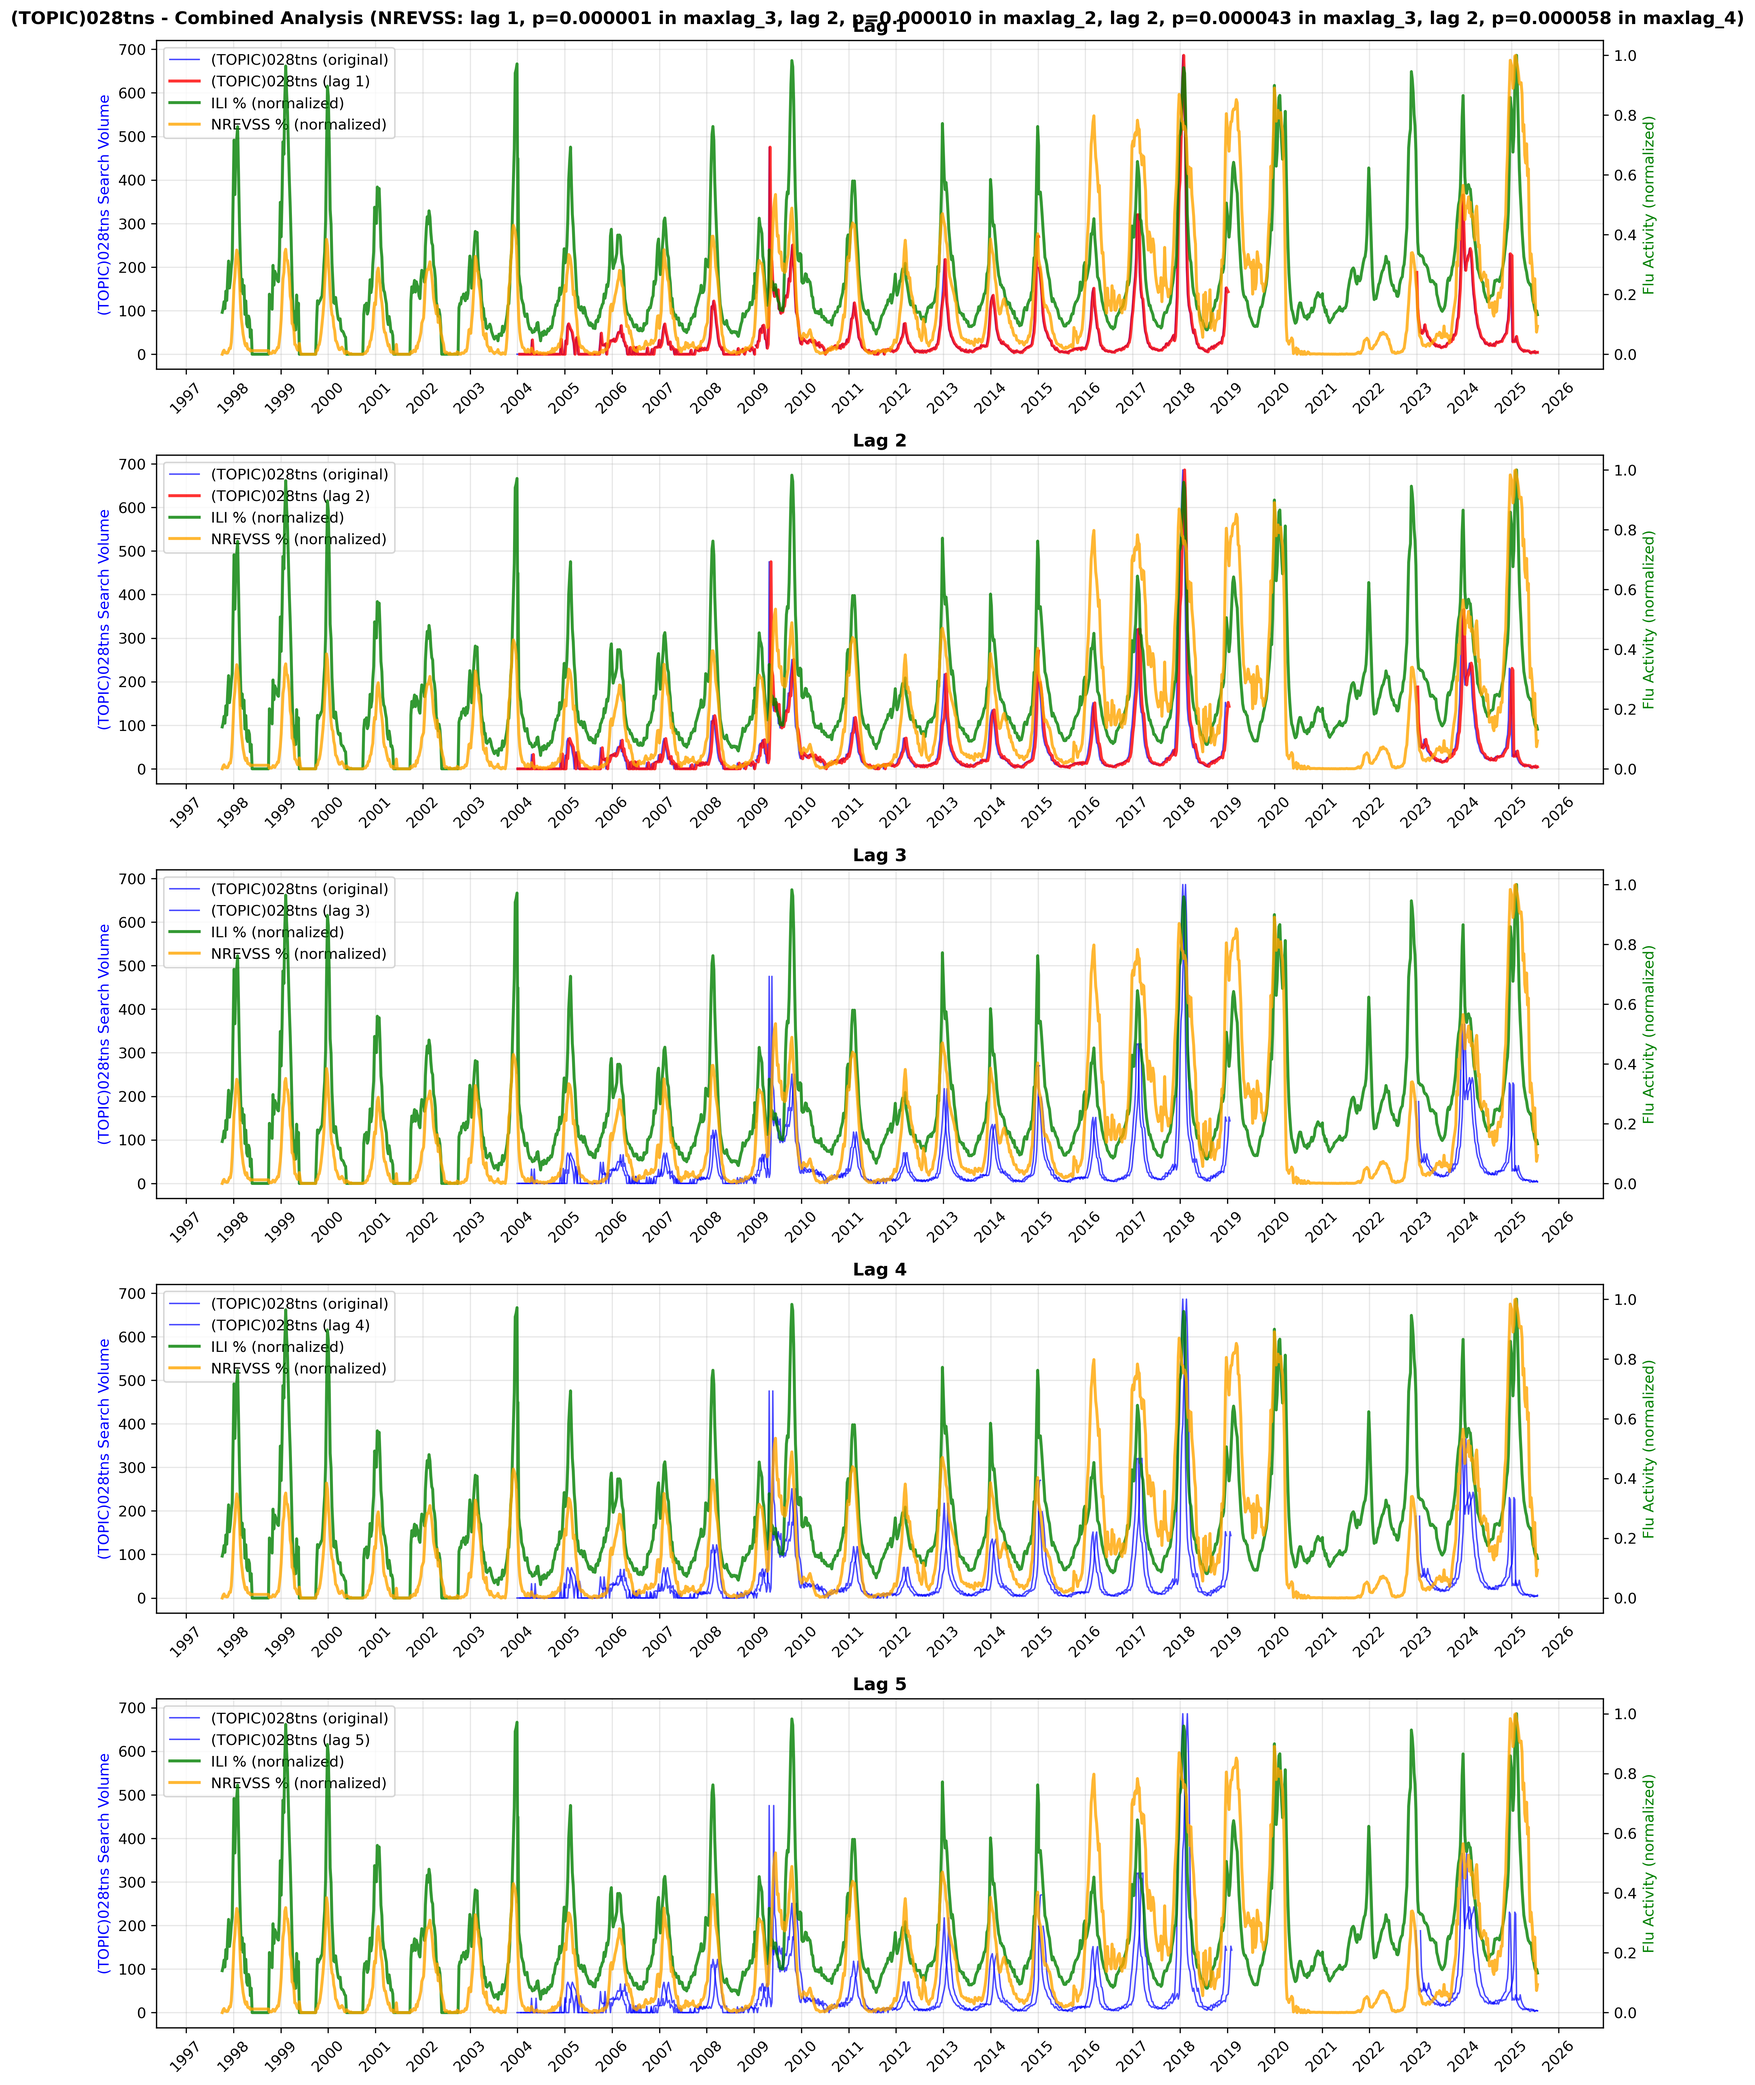
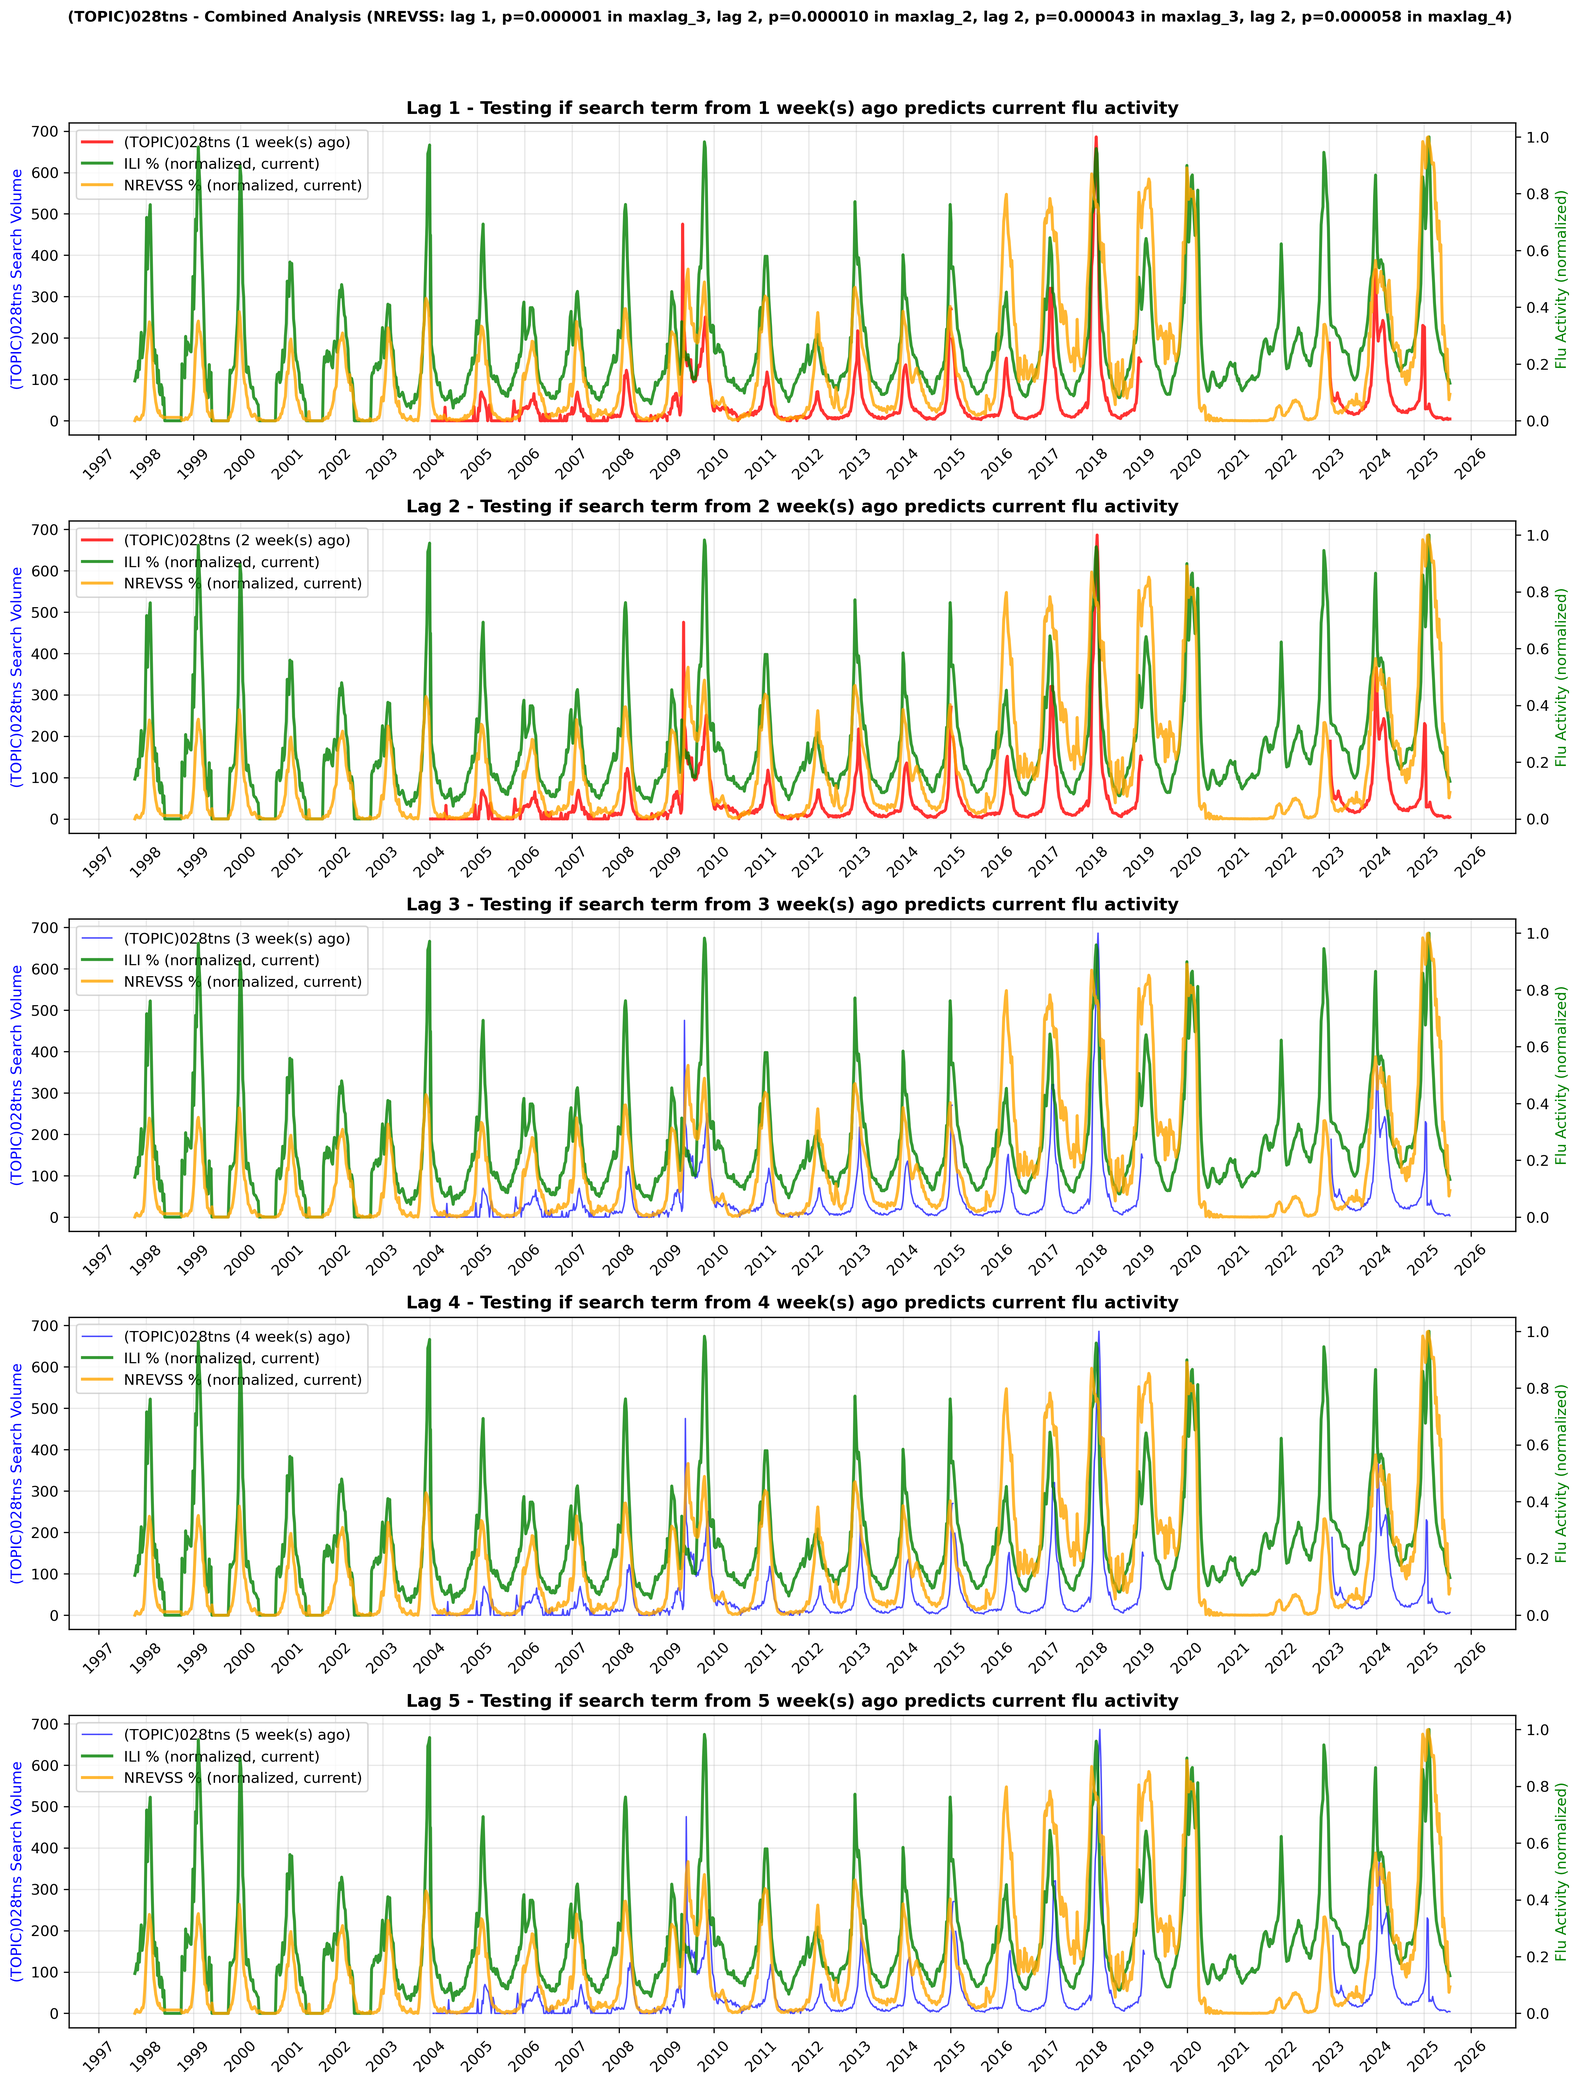
fine

Changed region(s): [[0.0, 0.0, 0.996, 0.9992], [0.9648, 0.7181, 0.996, 0.7494]]

diff --git a/Code/new/time_series_analysis_specific.py b/Code/new/time_series_analysis_specific.py
@@ -69,34 +69,32 @@ def create_ili_plot(term, df_ili, significant_lags, term_significant, term_dir):
         for s in ili_info:
             ili_parts.append(f"lag {s['lag']}, p={s['p_value']:.6f} in maxlag_{s['maxlag']}")
         ili_title_info = ', '.join(ili_parts)
-        fig.suptitle(f'{term} - ILI Analysis (Significant: {ili_title_info})', fontsize=12, fontweight='bold', y=0.98)
+        fig.suptitle(f'{term} - ILI Analysis (Significant: {ili_title_info})', fontsize=10, fontweight='bold', y=0.98)
     else:
-        fig.suptitle(f'{term} - ILI Analysis', fontsize=14, fontweight='bold', y=0.98)
+        fig.suptitle(f'{term} - ILI Analysis', fontsize=12, fontweight='bold', y=0.98)
     
     for lag in range(1, 6):
         ax = axes[lag-1]
         
-        # Create lagged term data
+        # Create lagged term data - this shifts the data backward in time
         df_ili[f'{term}_lag{lag}'] = df_ili[term].shift(lag)
         
-        # Plot data
+        # Plot data - use the same x-axis (current time points)
         x = df_ili['date']
         
-        # Plot search term (original) - left y-axis
-        ax.plot(x, df_ili[term], label=f'{term} (original)', color='blue', alpha=0.7, linewidth=1)
-        
         # Plot lagged search term (highlight if significant) - left y-axis
+        # The lagged data shows what the search term was 'lag' weeks ago at each current time point
         if lag in significant_lags:
-            ax.plot(x, df_ili[f'{term}_lag{lag}'], label=f'{term} (lag {lag})', color='red', alpha=0.8, linewidth=2)
+            ax.plot(x, df_ili[f'{term}_lag{lag}'], label=f'{term} ({lag} week(s) ago)', color='red', alpha=0.8, linewidth=2)
         else:
-            ax.plot(x, df_ili[f'{term}_lag{lag}'], label=f'{term} (lag {lag})', color='blue', alpha=0.7, linewidth=1)
+            ax.plot(x, df_ili[f'{term}_lag{lag}'], label=f'{term} ({lag} week(s) ago)', color='blue', alpha=0.7, linewidth=1)
         
-        # Plot ILI data - right y-axis
+        # Plot ILI data - right y-axis (current time)
         ax2 = ax.twinx()
-        ax2.plot(x, df_ili['% WEIGHTED ILI'], label='ILI %', color='green', alpha=0.8, linewidth=2)
+        ax2.plot(x, df_ili['% WEIGHTED ILI'], label='ILI % (current)', color='green', alpha=0.8, linewidth=2)
         
         # Customize plot
-        ax.set_title(f'Lag {lag}', fontweight='bold')
+        ax.set_title(f'Lag {lag} - Testing if search term from {lag} week(s) ago predicts current ILI', fontweight='bold')
         ax.set_ylabel(f'{term} Search Volume', color='blue')
         ax2.set_ylabel('ILI Activity (%)', color='green')
         ax.grid(True, alpha=0.3)
@@ -111,7 +109,7 @@ def create_ili_plot(term, df_ili, significant_lags, term_significant, term_dir):
         ax.xaxis.set_major_formatter(mdates.DateFormatter('%Y'))
         plt.setp(ax.xaxis.get_majorticklabels(), rotation=45)
     
-    plt.tight_layout()
+    plt.tight_layout(rect=[0, 0, 1, 0.96])  # Leave more space at top
     filename = os.path.join(term_dir, f"{term.replace('/', '_').replace(' ', '_').replace('(', '').replace(')', '')}_ili_analysis.png")
     plt.savefig(filename, dpi=300, bbox_inches='tight')
     plt.close()
@@ -128,9 +126,9 @@ def create_nrevss_plot(term, df_nrevss, significant_lags, term_significant, term
         for s in nrevss_info:
             nrevss_parts.append(f"lag {s['lag']}, p={s['p_value']:.6f} in maxlag_{s['maxlag']}")
         nrevss_title_info = ', '.join(nrevss_parts)
-        fig.suptitle(f'{term} - NREVSS Analysis (Significant: {nrevss_title_info})', fontsize=12, fontweight='bold', y=0.98)
+        fig.suptitle(f'{term} - NREVSS Analysis (Significant: {nrevss_title_info})', fontsize=10, fontweight='bold', y=0.98)
     else:
-        fig.suptitle(f'{term} - NREVSS Analysis', fontsize=14, fontweight='bold', y=0.98)
+        fig.suptitle(f'{term} - NREVSS Analysis', fontsize=12, fontweight='bold', y=0.98)
     
     # Normalize NREVSS data
     nrevss_min = df_nrevss['flu_pct_positive'].min()
@@ -140,27 +138,25 @@ def create_nrevss_plot(term, df_nrevss, significant_lags, term_significant, term
     for lag in range(1, 6):
         ax = axes[lag-1]
         
-        # Create lagged term data
+        # Create lagged term data - this shifts the data backward in time
         df_nrevss[f'{term}_lag{lag}'] = df_nrevss[term].shift(lag)
         
-        # Plot data
+        # Plot data - use the same x-axis (current time points)
         x = df_nrevss['date']
         
-        # Plot search term (original) - left y-axis
-        ax.plot(x, df_nrevss[term], label=f'{term} (original)', color='blue', alpha=0.7, linewidth=1)
-        
         # Plot lagged search term (highlight if significant) - left y-axis
+        # The lagged data shows what the search term was 'lag' weeks ago at each current time point
         if lag in significant_lags:
-            ax.plot(x, df_nrevss[f'{term}_lag{lag}'], label=f'{term} (lag {lag})', color='red', alpha=0.8, linewidth=2)
+            ax.plot(x, df_nrevss[f'{term}_lag{lag}'], label=f'{term} ({lag} week(s) ago)', color='red', alpha=0.8, linewidth=2)
         else:
-            ax.plot(x, df_nrevss[f'{term}_lag{lag}'], label=f'{term} (lag {lag})', color='blue', alpha=0.7, linewidth=1)
+            ax.plot(x, df_nrevss[f'{term}_lag{lag}'], label=f'{term} ({lag} week(s) ago)', color='blue', alpha=0.7, linewidth=1)
         
-        # Plot normalized NREVSS data - right y-axis
+        # Plot normalized NREVSS data - right y-axis (current time)
         ax2 = ax.twinx()
-        ax2.plot(x, df_nrevss['flu_pct_positive_normalized'], label='NREVSS % Positive (normalized)', color='orange', alpha=0.8, linewidth=2)
+        ax2.plot(x, df_nrevss['flu_pct_positive_normalized'], label='NREVSS % (normalized, current)', color='orange', alpha=0.8, linewidth=2)
         
         # Customize plot
-        ax.set_title(f'Lag {lag}', fontweight='bold')
+        ax.set_title(f'Lag {lag} - Testing if search term from {lag} week(s) ago predicts current NREVSS', fontweight='bold')
         ax.set_ylabel(f'{term} Search Volume', color='blue')
         ax2.set_ylabel('NREVSS Activity (normalized)', color='orange')
         ax.grid(True, alpha=0.3)
@@ -175,7 +171,7 @@ def create_nrevss_plot(term, df_nrevss, significant_lags, term_significant, term
         ax.xaxis.set_major_formatter(mdates.DateFormatter('%Y'))
         plt.setp(ax.xaxis.get_majorticklabels(), rotation=45)
     
-    plt.tight_layout()
+    plt.tight_layout(rect=[0, 0, 1, 0.96])  # Leave more space at top
     filename = os.path.join(term_dir, f"{term.replace('/', '_').replace(' ', '_').replace('(', '').replace(')', '')}_nrevss_analysis.png")
     plt.savefig(filename, dpi=300, bbox_inches='tight')
     plt.close()
@@ -204,7 +200,7 @@ def create_combined_plot(term, df_ili, df_nrevss, term_significant, term_dir):
         title_parts.append(nrevss_part)
     
     combined_title = f"{term} - Combined Analysis ({' | '.join(title_parts)})"
-    fig.suptitle(combined_title, fontsize=12, fontweight='bold', y=0.98)
+    fig.suptitle(combined_title, fontsize=10, fontweight='bold', y=0.98)
     
     # Get significant lags for both test types
     ili_significant_lags = [s['lag'] for s in term_significant if s['test_type'] == 'ili']
@@ -222,37 +218,35 @@ def create_combined_plot(term, df_ili, df_nrevss, term_significant, term_dir):
     for lag in range(1, 6):
         ax = axes[lag-1]
         
-        # Create lagged term data for both datasets
+        # Create lagged term data for both datasets - this shifts the data backward in time
         df_ili[f'{term}_lag{lag}'] = df_ili[term].shift(lag)
         df_nrevss[f'{term}_lag{lag}'] = df_nrevss[term].shift(lag)
         
         # Plot search term data (use ILI dates as reference) - left y-axis
         x = df_ili['date']
         
-        # Plot search term (original) - left y-axis
-        ax.plot(x, df_ili[term], label=f'{term} (original)', color='blue', alpha=0.7, linewidth=1)
-        
         # Plot lagged search term (highlight if significant in either test) - left y-axis
+        # The lagged data shows what the search term was 'lag' weeks ago at each current time point
         is_significant = (lag in ili_significant_lags) or (lag in nrevss_significant_lags)
         if is_significant:
-            ax.plot(x, df_ili[f'{term}_lag{lag}'], label=f'{term} (lag {lag})', color='red', alpha=0.8, linewidth=2)
+            ax.plot(x, df_ili[f'{term}_lag{lag}'], label=f'{term} ({lag} week(s) ago)', color='red', alpha=0.8, linewidth=2)
         else:
-            ax.plot(x, df_ili[f'{term}_lag{lag}'], label=f'{term} (lag {lag})', color='blue', alpha=0.7, linewidth=1)
+            ax.plot(x, df_ili[f'{term}_lag{lag}'], label=f'{term} ({lag} week(s) ago)', color='blue', alpha=0.7, linewidth=1)
         
-        # Plot both normalized flu datasets - right y-axis
+        # Plot both normalized flu datasets - right y-axis (current time)
         ax2 = ax.twinx()
         
-        # Plot normalized ILI data
-        ax2.plot(x, df_ili['% WEIGHTED ILI_normalized'], label='ILI % (normalized)', color='green', alpha=0.8, linewidth=2)
+        # Plot normalized ILI data (current time)
+        ax2.plot(x, df_ili['% WEIGHTED ILI_normalized'], label='ILI % (normalized, current)', color='green', alpha=0.8, linewidth=2)
         
-        # Plot normalized NREVSS data (align dates)
+        # Plot normalized NREVSS data (align dates, current time)
         # Handle duplicate dates by taking the mean
         nrevss_data = df_nrevss.groupby('date')['flu_pct_positive_normalized'].mean()
         nrevss_aligned = nrevss_data.reindex(x).ffill()
-        ax2.plot(x, nrevss_aligned, label='NREVSS % (normalized)', color='orange', alpha=0.8, linewidth=2)
+        ax2.plot(x, nrevss_aligned, label='NREVSS % (normalized, current)', color='orange', alpha=0.8, linewidth=2)
         
         # Customize plot
-        ax.set_title(f'Lag {lag}', fontweight='bold')
+        ax.set_title(f'Lag {lag} - Testing if search term from {lag} week(s) ago predicts current flu activity', fontweight='bold')
         ax.set_ylabel(f'{term} Search Volume', color='blue')
         ax2.set_ylabel('Flu Activity (normalized)', color='green')
         ax.grid(True, alpha=0.3)
@@ -267,7 +261,7 @@ def create_combined_plot(term, df_ili, df_nrevss, term_significant, term_dir):
         ax.xaxis.set_major_formatter(mdates.DateFormatter('%Y'))
         plt.setp(ax.xaxis.get_majorticklabels(), rotation=45)
     
-    plt.tight_layout()
+    plt.tight_layout(rect=[0, 0, 1, 0.96])  # Leave more space at top
     filename = os.path.join(term_dir, f"{term.replace('/', '_').replace(' ', '_').replace('(', '').replace(')', '')}_combined_analysis.png")
     plt.savefig(filename, dpi=300, bbox_inches='tight')
     plt.close()
